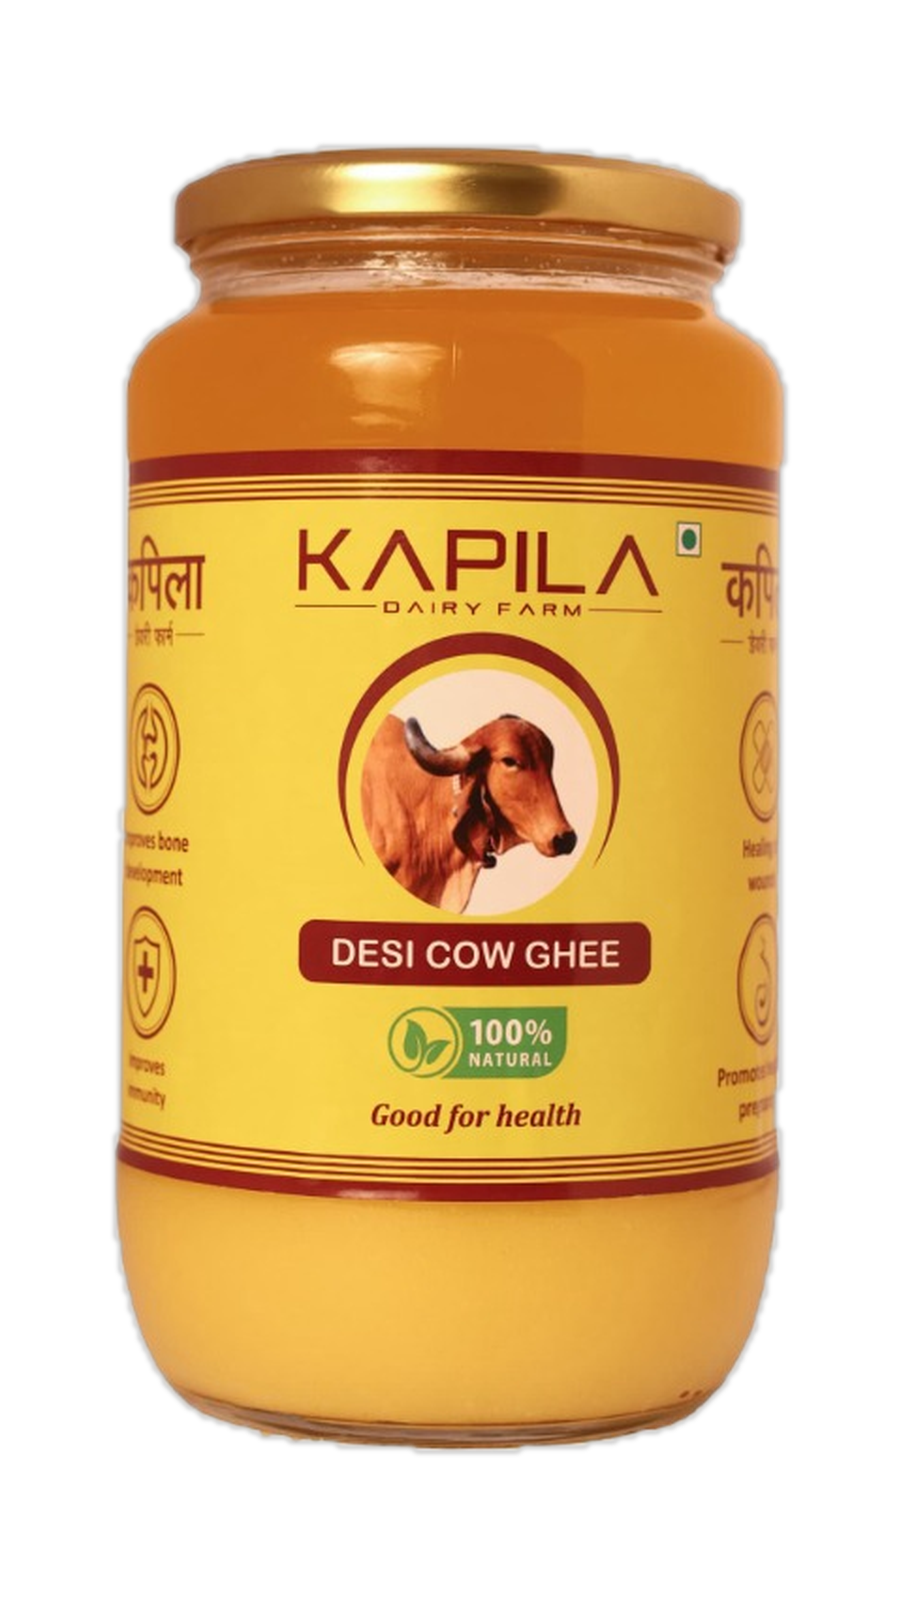
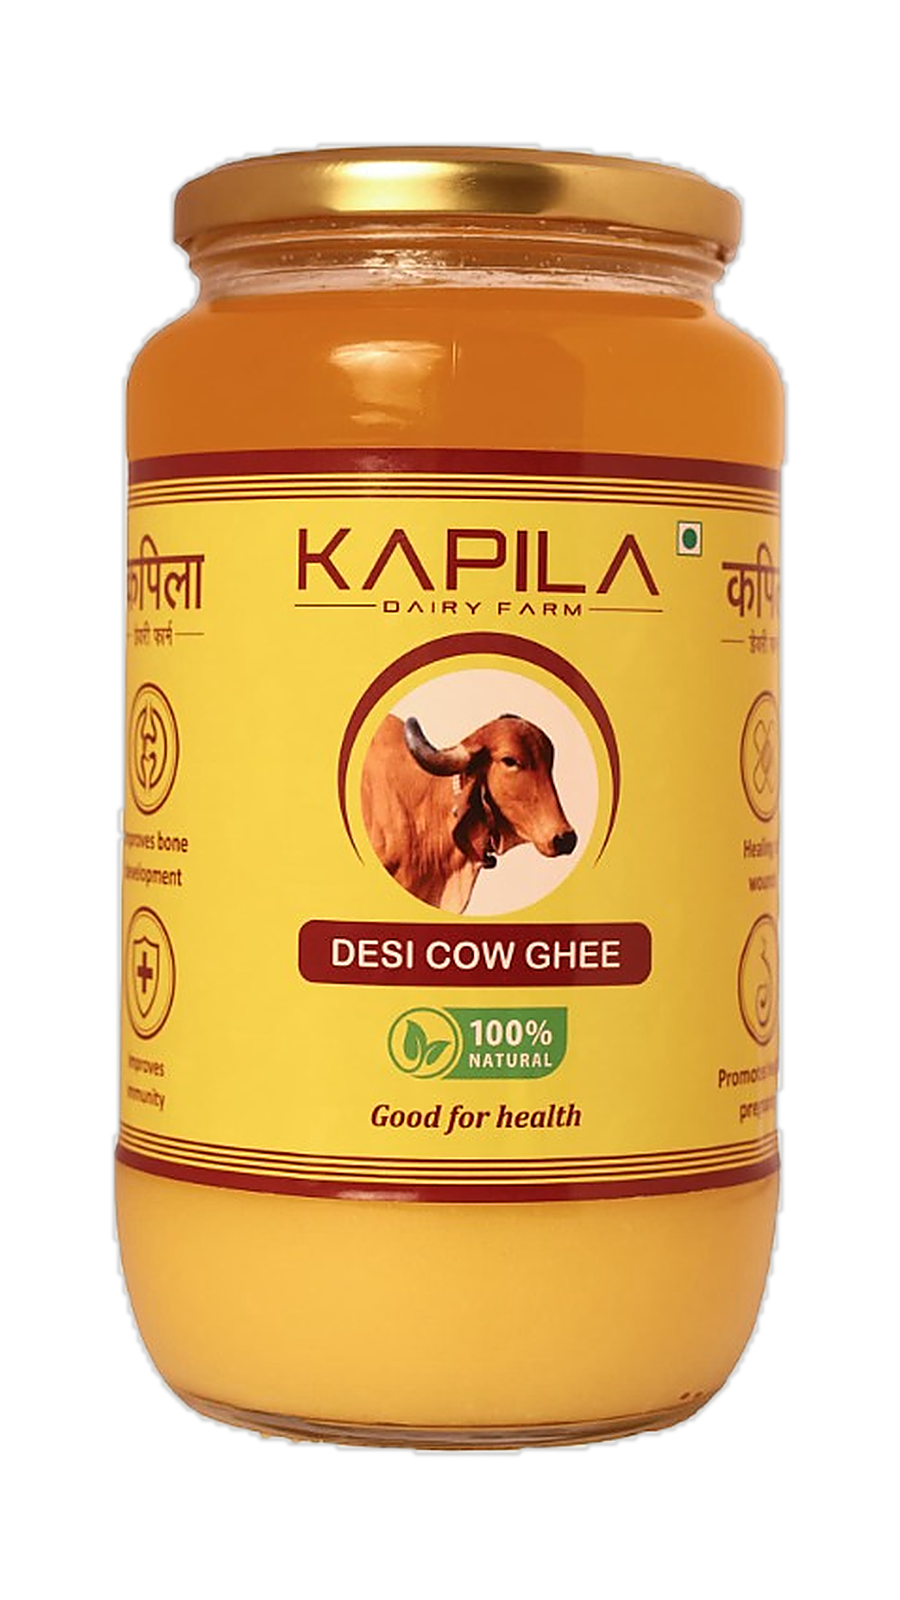
Sharpen 1kg jar image, shrink hero image 10%, tighten footer spacing
The jar photo (used as the 1kg fallback and homepage hero) needed the most
upscaling of the four product shots since its natural size in the source
photo is smallest relative to the shared canvas, which is why it looked
noticeably blurrier than the tin photos. Added an unsharp-mask pass after
resizing to recover perceived detail, and raised the Next.js Image quality
for all product photos from the default 75 to 92 (requires declaring it in
next.config.ts's images.qualities allowlist, new in Next 16) so the
optimizer's own recompression doesn't soften them further.

Shrunk the homepage hero product image ~10% (max-w-sm/md -> arbitrary
346px/403px) per feedback that it was too large.

Reduced footer vertical padding and internal spacing (py-16/20/24 ->
py-10/12/14, heading-to-content gaps tightened) — it had gotten
disproportionately large relative to its actual content.

diff --git a/src/components/shared/Footer.tsx b/src/components/shared/Footer.tsx
@@ -14,17 +14,17 @@ export function Footer({ settings }: { settings: BusinessSettings | null }) {
 
   return (
     <footer className="bg-dark-brown text-cream/90">
-      <Container className="flex flex-wrap gap-x-12 gap-y-12 py-16 sm:py-20 lg:py-24">
+      <Container className="flex flex-wrap gap-x-10 gap-y-8 py-10 sm:py-12 lg:py-14">
         <div className="min-w-[220px] flex-[2_1_260px]">
           <Logo tone="cream" />
-          <p className="mt-5 max-w-xs text-sm leading-relaxed text-cream/70">
+          <p className="mt-3 max-w-xs text-sm leading-relaxed text-cream/70">
             Pure A2 Gir Cow Ghee — no added ingredients, crafted in Surat, Gujarat.
           </p>
         </div>
 
         <div className="min-w-[140px] flex-1">
           <h3 className="text-xs font-semibold uppercase tracking-[0.2em] text-kapila-gold">Explore</h3>
-          <ul className="mt-5 space-y-3">
+          <ul className="mt-3 space-y-2">
             {NAV_LINKS.map((link) => (
               <li key={link.href}>
                 <a href={link.href} className="text-sm text-cream/75 transition-colors hover:text-cream">
@@ -38,7 +38,7 @@ export function Footer({ settings }: { settings: BusinessSettings | null }) {
         <div className="min-w-[180px] flex-1">
           <h3 className="text-xs font-semibold uppercase tracking-[0.2em] text-kapila-gold">Visit Us</h3>
           {settings?.address ? (
-            <address className="mt-5 whitespace-pre-line text-sm not-italic leading-relaxed text-cream/75">
+            <address className="mt-3 whitespace-pre-line text-sm not-italic leading-relaxed text-cream/75">
               {settings.address}
             </address>
           ) : null}
@@ -47,7 +47,7 @@ export function Footer({ settings }: { settings: BusinessSettings | null }) {
         {contactActions.length > 0 || social.length > 0 ? (
           <div className="min-w-[160px] flex-1">
             <h3 className="text-xs font-semibold uppercase tracking-[0.2em] text-kapila-gold">Get in Touch</h3>
-            <ul className="mt-5 space-y-3">
+            <ul className="mt-3 space-y-2">
               {contactActions
                 .filter((a) => a.kind !== "maps")
                 .map((action) => (
@@ -75,7 +75,7 @@ export function Footer({ settings }: { settings: BusinessSettings | null }) {
       </Container>
 
       <div className="border-t border-cream/10">
-        <Container className="flex flex-col items-center justify-between gap-4 py-7 text-center text-xs text-cream/60 sm:flex-row sm:text-left">
+        <Container className="flex flex-col items-center justify-between gap-3 py-5 text-center text-xs text-cream/60 sm:flex-row sm:text-left">
           <p>
             &copy; {year} {settings?.businessName ?? "Kapila Dairy Farm"}. All rights reserved.
           </p>

diff --git a/prisma/seed.ts b/prisma/seed.ts
@@ -54,7 +54,7 @@ async function main() {
   // at all — they sit directly on whatever the page background is.
   const jarMedia = await db.media.upsert({
     where: { id: "media-ghee-jar" },
-    update: { url: "/images/product/ghee-jar.png", width: 900, height: 1600, fileType: "image/png", fileSize: 846948 },
+    update: { url: "/images/product/ghee-jar.png", width: 900, height: 1600, fileType: "image/png", fileSize: 981768 },
     create: {
       id: "media-ghee-jar",
       url: "/images/product/ghee-jar.png",
@@ -62,7 +62,7 @@ async function main() {
       width: 900,
       height: 1600,
       fileType: "image/png",
-      fileSize: 846948,
+      fileSize: 981768,
     },
   });
 
@@ -99,7 +99,7 @@ async function main() {
   // back-to-back.
   const jarHeroMedia = await db.media.upsert({
     where: { id: "media-ghee-jar-hero" },
-    update: { url: "/images/product/ghee-jar-hero.png", width: 1000, height: 1250, fileType: "image/png", fileSize: 690372 },
+    update: { url: "/images/product/ghee-jar-hero.png", width: 1000, height: 1250, fileType: "image/png", fileSize: 792691 },
     create: {
       id: "media-ghee-jar-hero",
       url: "/images/product/ghee-jar-hero.png",
@@ -107,7 +107,7 @@ async function main() {
       width: 1000,
       height: 1250,
       fileType: "image/png",
-      fileSize: 690372,
+      fileSize: 792691,
     },
   });
 

diff --git a/src/components/public/HeroSection.tsx b/src/components/public/HeroSection.tsx
@@ -49,7 +49,7 @@ export function HeroSection({
         </div>
 
         <div className="flex justify-center lg:justify-end">
-          <div className="relative flex aspect-[4/5] w-full max-w-sm items-center justify-center sm:max-w-md">
+          <div className="relative flex aspect-[4/5] w-full max-w-[346px] items-center justify-center sm:max-w-[403px]">
             <div
               aria-hidden="true"
               className="absolute inset-10 rounded-full bg-kapila-gold/15"
@@ -61,7 +61,8 @@ export function HeroSection({
                 width={image.width ?? 900}
                 height={image.height ?? 1600}
                 priority
-                sizes="(min-width: 1024px) 420px, 80vw"
+                quality={92}
+                sizes="(min-width: 1024px) 380px, 72vw"
                 className="relative h-full w-auto max-w-full object-contain drop-shadow-[0_25px_35px_rgba(59,33,24,0.25)]"
               />
             ) : (

diff --git a/src/components/public/ProductCard.tsx b/src/components/public/ProductCard.tsx
@@ -19,6 +19,7 @@ export function ProductCard({ product }: { product: ProductWithRelations }) {
             alt={image.altText ?? product.name}
             width={image.width ?? 900}
             height={image.height ?? 1600}
+            quality={92}
             sizes="(min-width: 640px) 288px, 80vw"
             className="h-full max-h-72 w-auto object-contain drop-shadow-[0_16px_24px_rgba(59,33,24,0.15)]"
           />

diff --git a/src/components/public/ProductGallery.tsx b/src/components/public/ProductGallery.tsx
@@ -44,6 +44,7 @@ export function ProductGallery({
           width={active.width ?? 900}
           height={active.height ?? 1600}
           priority
+          quality={92}
           sizes="(min-width: 1024px) 480px, 90vw"
           className="h-full w-auto max-w-full object-contain drop-shadow-[0_20px_30px_rgba(59,33,24,0.18)]"
         />

diff --git a/next.config.ts b/next.config.ts
@@ -4,6 +4,9 @@ const nextConfig: NextConfig = {
   turbopack: {
     root: __dirname,
   },
+  images: {
+    qualities: [75, 92],
+  },
   async headers() {
     return [
       {
